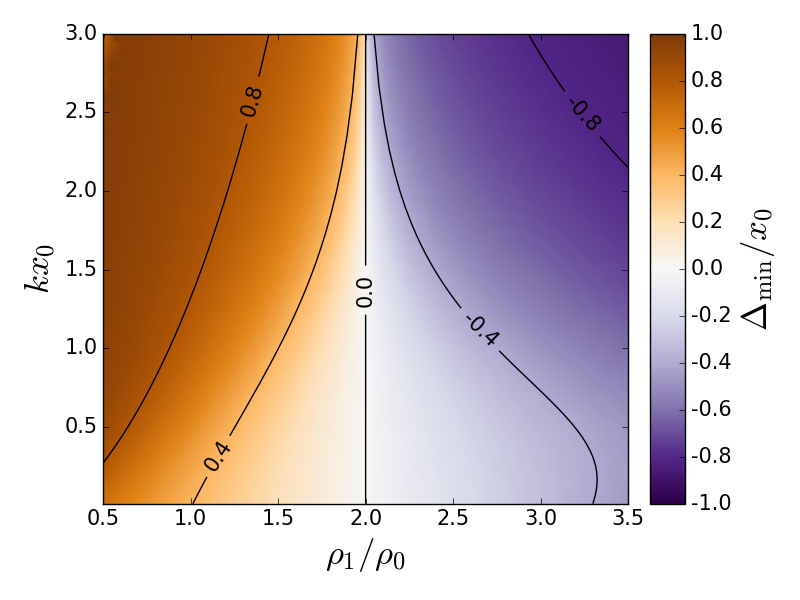
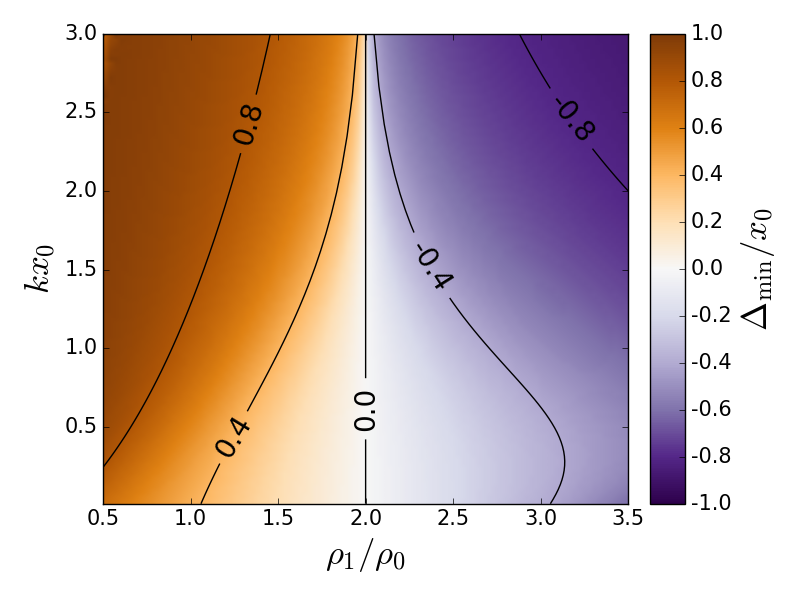
removed center line in sms 2 var. Ensured pressure balanced params in sms

diff --git a/sms.py b/sms.py
@@ -16,11 +16,13 @@ import shiftedcolormap as scm
 
 # SBS
 # Define the sound speeds and alfven speeds.
-c2 = 1.2
 c0 = 1.
 vA = 1.3
 cT = sc.sqrt(c0**2*vA**2*(c0**2+vA**2)**(-1))
 R2 = 2.
+
+#to maintain pressure balance
+c2 = np.sqrt(1/R2 * (c0**2 + 5./6 * vA**2))
 
 mode_options = ['slow-kink-surf', 'slow-saus-surf', 'fast-kink-surf',
                 'fast-saus-surf']
@@ -36,9 +38,9 @@ for mode in mode_options:
 
 mode = mode_options[1]
 
-plot_variable = 'amp-ratio'
+#plot_variable = 'amp-ratio'
 #plot_variable = 'amp-ratio-2'
-#plot_variable = 'min-pert-shift'
+plot_variable = 'min-pert-shift'
 #plot_variable = 'min-pert-shift-2'
 #plot_variable = 'W'
 

diff --git a/sms-vA-2var.py b/sms-vA-2var.py
@@ -346,10 +346,10 @@ if show_DM == True:
     labs = [l.get_label() for l in lns]
     plt.legend(lns, labs, loc=(0.102, 0.775), fancybox=True, framealpha=0.7)
     
-    plt.axvline(color='black')
+#    plt.axvline(color='black')
     plt.axvline(x=-1., color='black')
     plt.axvline(x=1., color='black')
-    ax1.annotate('Body modes', xy=(0.03, 0.62), xycoords='data', annotation_clip=False, fontsize=14)
+    ax1.annotate('Body modes', xy=(0.3, 0.62), xycoords='data', annotation_clip=False, fontsize=14)
     
     #parameter value overlay
     textstr = (r'$\rho_2/\rho_0=%.1f$' + '\n' + r'$\omega/k c_0=%.1f$' + '\n' + 
